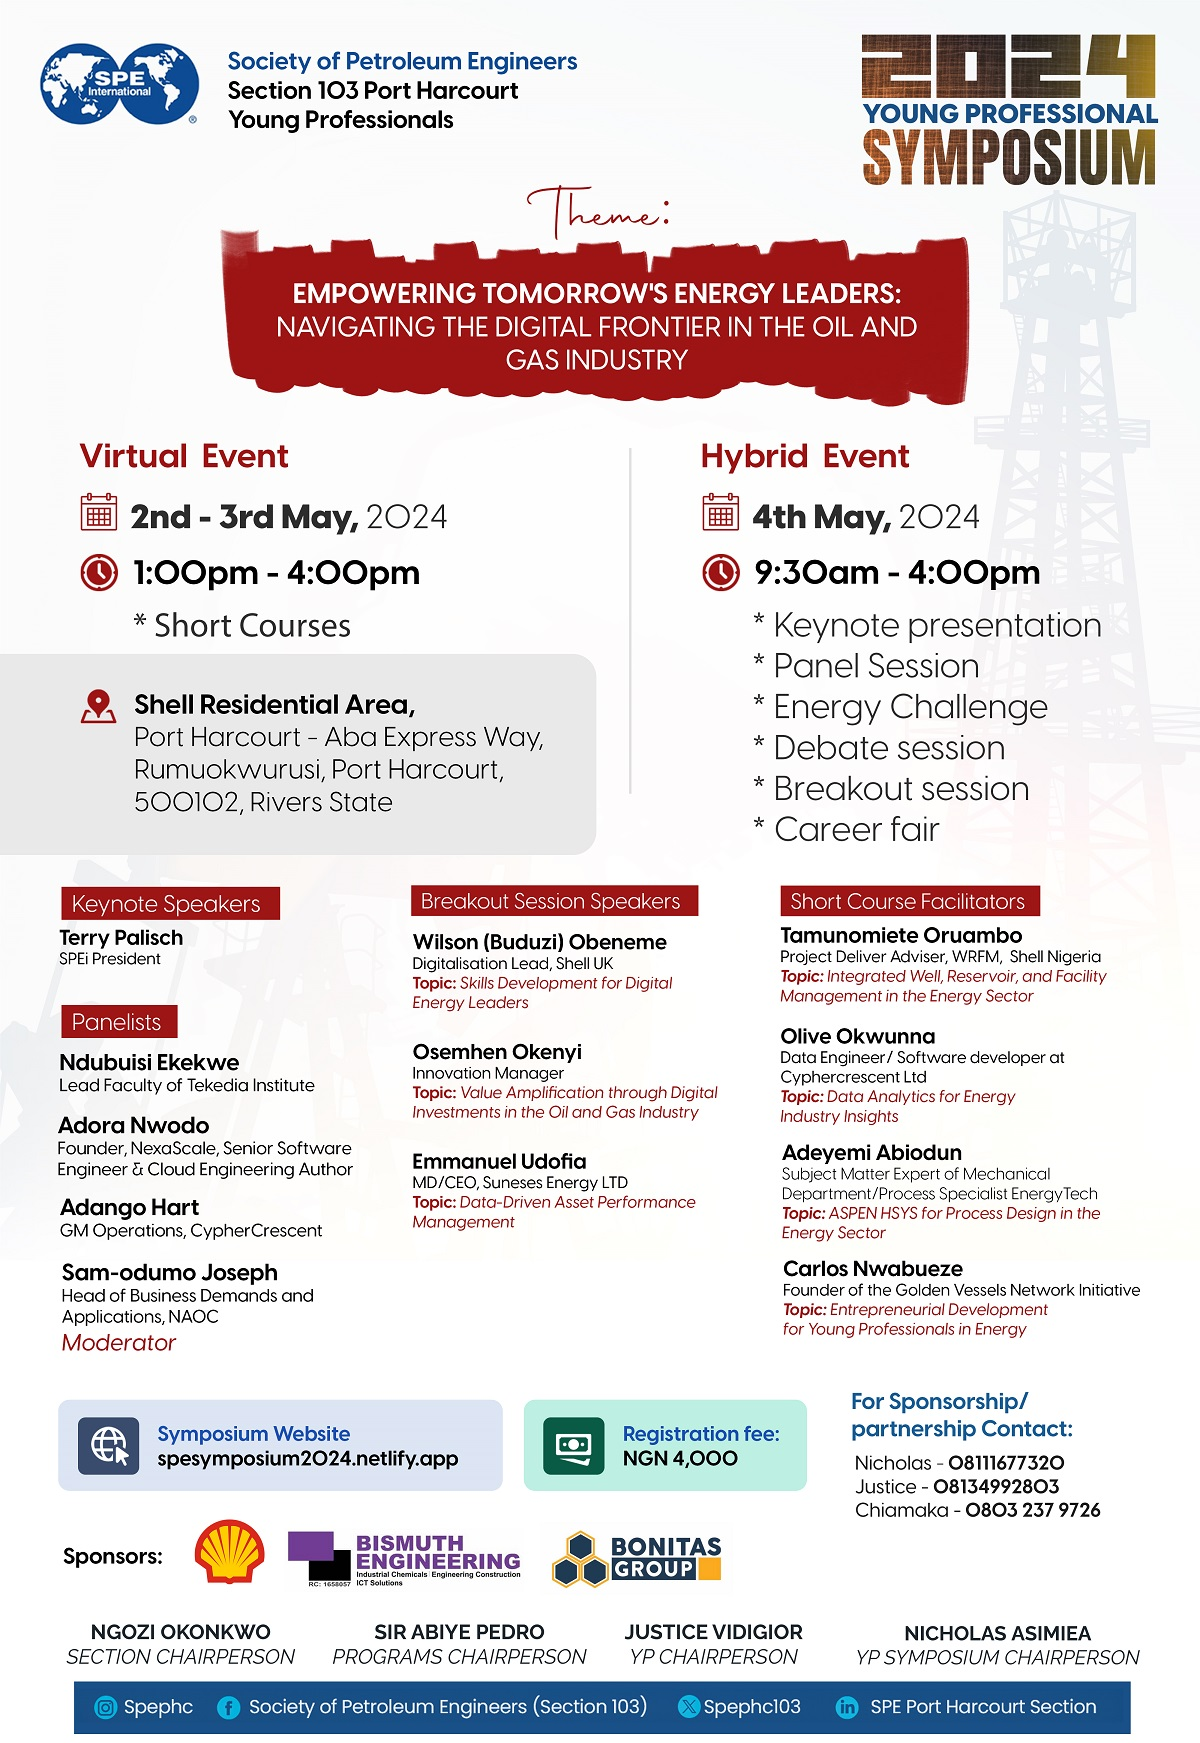
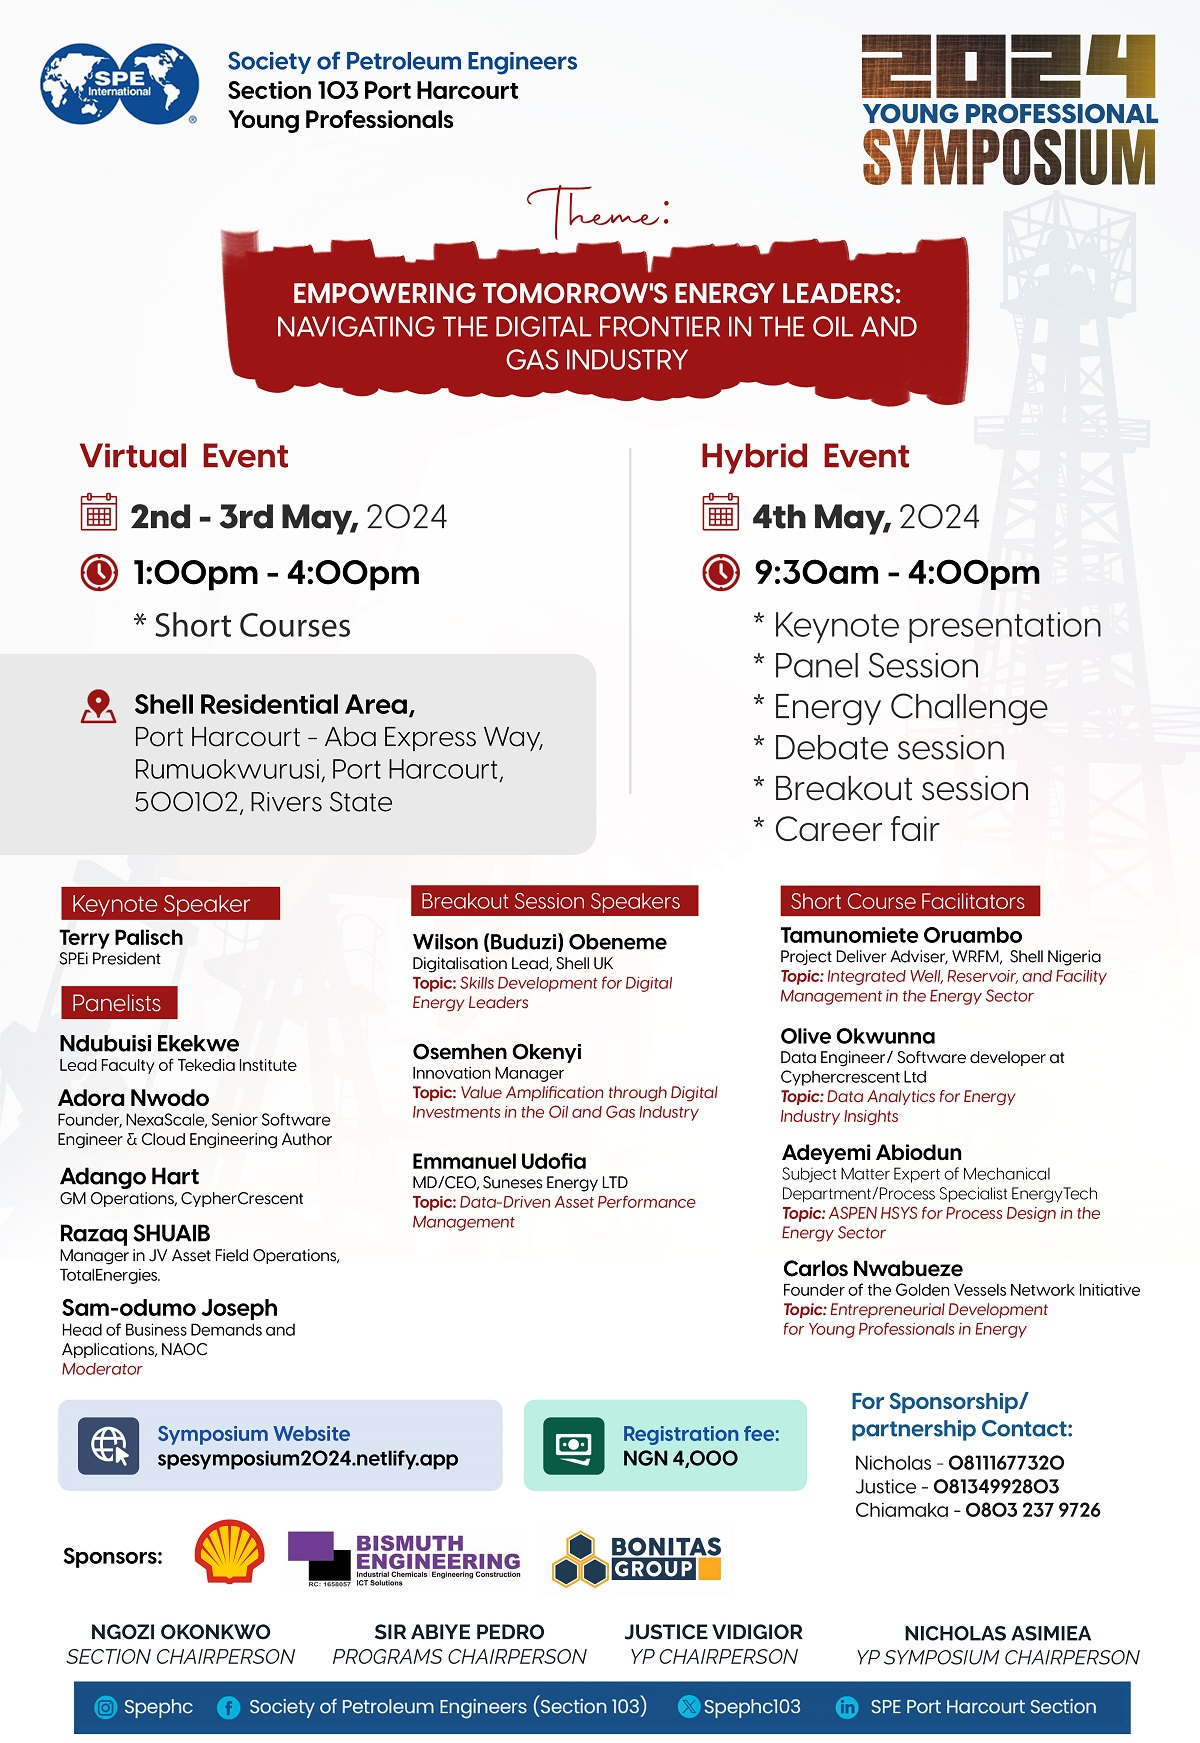
razaq

Changed region(s): [[0.0308, 0.5577, 0.2775, 0.8055]]

diff --git a/detailpage/tahir.html b/detailpage/tahir.html
@@ -30,25 +30,16 @@
 
     <div class="speaker-container">
         <div class="speaker-image-container">
-            <img class="speaker-image" src="../assests/img/tahir.jpg" alt="felix obike">
+            <img class="speaker-image" src="../assests/img/tahir.png" alt="tahir">
             <a target="_blank" href="https://www.linkedin.com/in/salahuddeen-tahir-8b8b254/">
                 <img class="linkedinLogo" src="../assests/img/linkedin-logo.png" alt="linkedin">
             </a>
         </div>
         <p class="speaker-bio">
-            Felix Chijioke Obike is a vibrant SPE member that has held numerous distinguished positions over the years 
-            including Council Treasurer, Council member, and Committee Chair to name a few. Having championed various 
-            committees in NAICE over the years, He is currently the Chairman of SPENC Adhoc committee on Condolences and 
-            Bereavement. He currently works as a Well Services Engineer at Seplat Energy and has accrued 29 years of relevant 
-            industry experience in prolific organizations such as SHELL Nigeria and ADNOC. He has worked in diverse functions 
-            such as Production Operations, Production Technology, Completions & Well Intervention, Well Integrity and an SME 
-            in Artificial lift (Gas Lift). 
-            Felix has an academic  background in Petroleum Engineering (BEng.) from the Federal University of Technology Owerri, 
-            and Petroleum & Energy Economics (MSc.) from Delta State University. He is a goal getter with passion for teamwork, 
-            and very strong interpersonal skills. He has ability to adapt to any working condition having worked on Assets in the 
-            deserts, and  onshore fields). 
-            He gives back to the society by engaging in mentoring programs and has mentored more than 15 junior engineers in SPEI 
-            and in ADNOC in Completions & Well Intervention Practices.
+            Salahuddeen M. Tahir has over twenty-two years decades of experience in the oil and gas industry. He has degrees in both Geology and Petroleum Engineering. Salahuddeen started his career with the Nigerian National Petroleum Corporation (NNPC) which is now (NNPC) Limited. <br><br>
+With upstream and midstream gas supply and infrastructure project experience, Salahuddeen has had the opportunity over the years to work with several cross-functional teams across the oil and gas industry. He is currently the Head, Assets & Investments Management, NNPC Gas & Power Investment Services (NGPIS), a business arm of NNPC Ltd., where he leads asset management and strategic investments towards operating and maintaining of existing as well as actualization of Power, LNG, and Gas Based Industry initiatives for the company. <br><br>
+As an active volunteer for SPE, Salahuddeen has played local and international roles for the professional body. He is also a member of Nigerian Society of Engineers (NSE) among other professional bodies and is registered with COREN. 
+
         </p>
     </div>
 </body>

diff --git a/detailpage/razaq.html b/detailpage/razaq.html
@@ -1,0 +1,49 @@
+<!DOCTYPE html>
+<html lang="en">
+<head>
+    <meta charset="UTF-8">
+    <meta http-equiv="X-UA-Compatible" content="IE=edge">
+    <meta name="viewport" content="width=device-width, initial-scale=1.0">
+    
+    <!-- Web information -->
+    <link rel="icon" href="assests/img/spelogo.png" />
+    <title>SPE YP symposium</title>
+
+    <!-- Stylesheets -->
+    <link href='https://fonts.googleapis.com/css?family=Josefin Sans' rel='stylesheet'>
+    <link rel="stylesheet" href="../assests/css/index.css">
+    <link rel="stylesheet" href="../assests/css/detail.css">
+    <link 
+        rel="stylesheet" 
+        href="https://cdn.jsdelivr.net/npm/bootstrap@4.3.1/dist/css/bootstrap.min.css" 
+        integrity="sha384-ggOyR0iXCbMQv3Xipma34MD+dH/1fQ784/j6cY/iJTQUOhcWr7x9JvoRxT2MZw1T" 
+        crossorigin="anonymous"
+    >
+</head>
+<body>
+    <a href="../index.html#panel-section"><button class="btn btn-primary backbutton">Back to home page</button></a>
+    
+    <div class="speaker-title">
+        <h3>Razaq SHUAIB</h3>
+        <h4>Manager in JV Asset Field Operations, TotalEnergies.</h4>
+        <h5 style="display: none;"><strong>Area of Focus: </strong>Digital Transformation in Oil and Gas Software Solutions</h5>
+    </div>
+
+    <div class="speaker-container">
+        <div class="speaker-image-container">
+            <img class="speaker-image" src="../assests/img/razaq.png" alt="nj ayuk">
+            <a target="_blank" href="https://www.linkedin.com/in/razaq-shuaib-63447427?utm_source=share&utm_campaign=share_via&utm_content=profile&utm_medium=android_app">
+                <img class="linkedinLogo" src="../assests/img/linkedin-logo.png" alt="linkedin">
+            </a>
+        </div>
+        <p class="speaker-bio">
+            Work Experience: 10+ years consummate E&P experience from producing & service companies: Fairfield Energy and CypherCrescent
+Area of Expertise: Petroleum engineering, well completion design, project engineering, well and reservoir studies, WRFM, project management, clean energy technologies and data analytics. 
+Leadership Exposure: Lead Petroleum Engineer; Manager, Technical Planning; Manager, Digitalisation Projects; and GM, Petroleum Engineering. 
+Education: B.Eng Mechanical Engineering; MSc Petroleum Production Engineering; and Certified PMP
+Current Job:  GM, Operations & Senior Advisor to the CEO
+
+        </p>
+    </div>
+</body>
+</html>

diff --git a/index.html b/index.html
@@ -194,7 +194,7 @@
                         Engr. Salahudeen Tahir is a vibrant SPE member that has held numerous distinguished 
                         positions ...
                     </p>
-                    <a class="call-to-action" href="#">View More</a>
+                    <a class="call-to-action" href="./detailpage/tahir.html">View More</a>
                 </div>
             </div>
         </div>
@@ -235,6 +235,16 @@
                     <p class="speaker-title">GM Operations, CypherCrescent</p>
                     <p class="speaker-subtitle"><strong>Area of Focus: </strong>Digital Transformation in Oil and Gas Software Solutions</p>
                     <a class="call-to-action" href="./detailpage/hart.html">View More</a>
+                </div>
+            </div>
+
+            <div class="cards-container">
+                <img src="./assests/img/razaq.png" alt="ayuk" class="card-image">
+                <div class="card-writeup">
+                    <p class="speaker-name">Razaq SHUAIB</p>
+                    <p class="speaker-title">Manager in JV Asset Field Operations, TotalEnergies.</p>
+                    <p style="display: none;" class="speaker-subtitle"><strong>Area of Focus: </strong>Digital Transformation in Oil and Gas Software Solutions</p>
+                    <a class="call-to-action" href="./detailpage/#">View More</a>
                 </div>
             </div>
             
